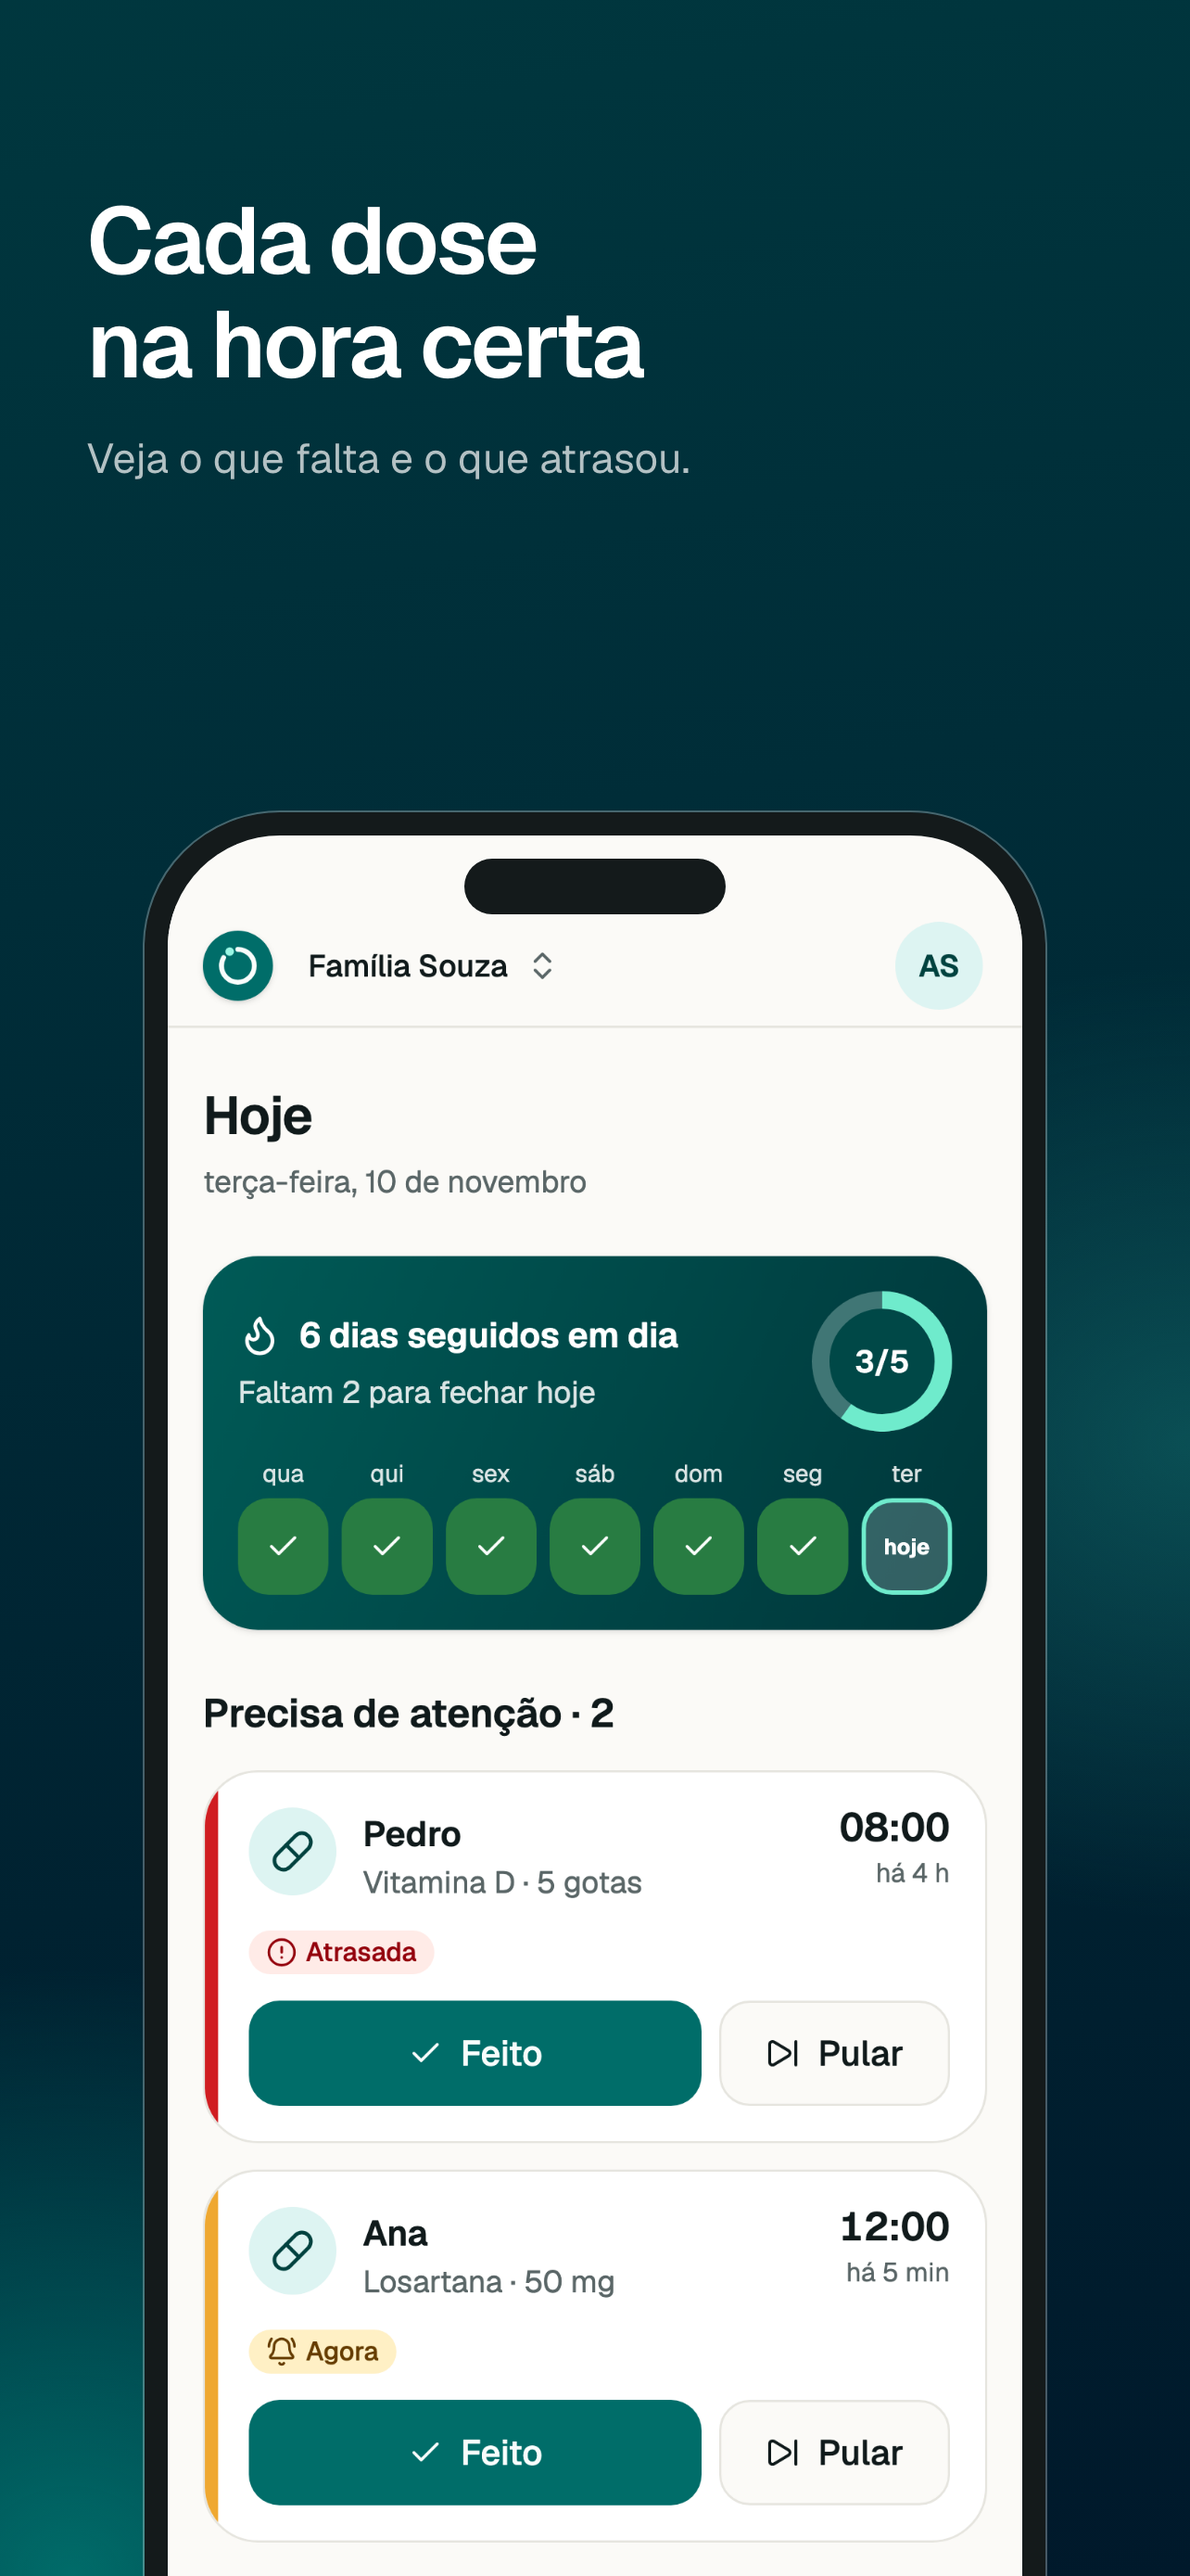
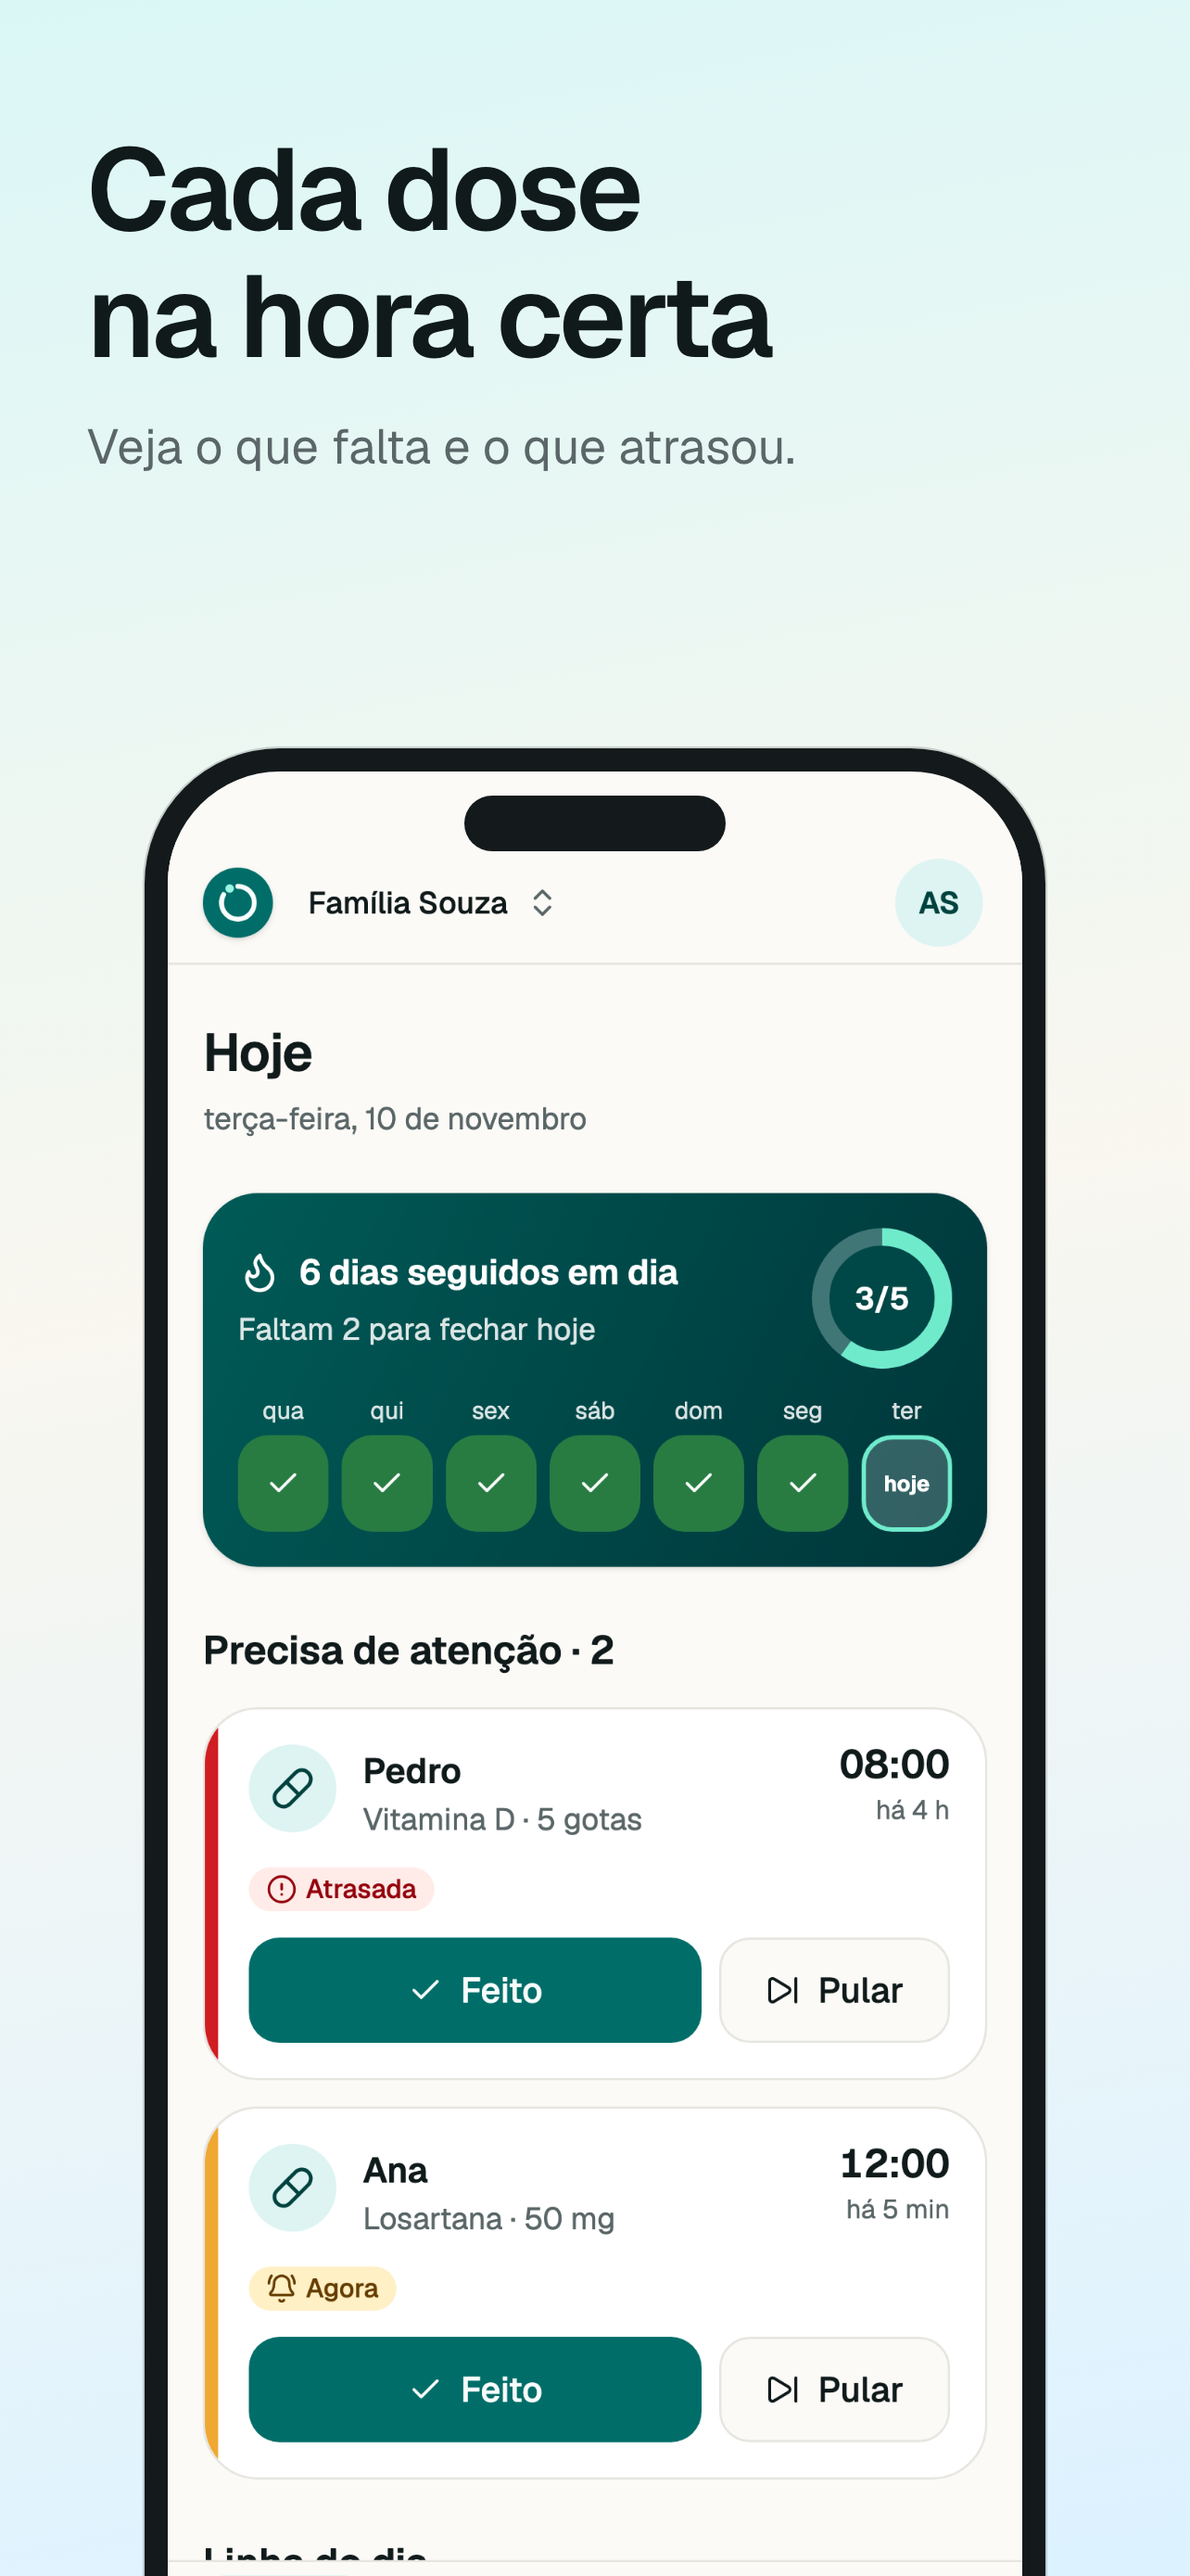
feat(loja): telas claras com o tema claro do site, títulos maiores e celular mais acima

diff --git a/apps/app/tests/store-slides.test.ts b/apps/app/tests/store-slides.test.ts
@@ -37,20 +37,46 @@ describe("tema das telas: algumas no claro, outras no escuro", () => {
   });
 });
 
-describe("estilo: fundo escuro e tipografia do hero do site", () => {
-  const html = renderStoreSlide(STORE_SLIDES[0], STORE_SIZES[0], PIXEL, "");
-  test("o degradê de fundo começa e termina escuro (luminosidade ≤ 0,34 em OKLCH)", () => {
-    const stops = [...html.match(/linear-gradient\(170deg,([^;]*)\)\}/)![1].matchAll(/oklch\(([\d.]+) /g)].map((m) => Number(m[1]));
-    expect(stops.length).toBe(2);
-    for (const l of stops) expect(l).toBeLessThanOrEqual(0.34);
+describe("estilo: tema escuro e claro do site, tipografia do hero", () => {
+  const light = renderStoreSlide(STORE_SLIDES[0], STORE_SIZES[0], PIXEL, "");
+  const dark = renderStoreSlide(STORE_SLIDES[1], STORE_SIZES[0], PIXEL, "");
+  const stops = (html: string) => [...html.match(/linear-gradient\(170deg,([^;]*)\)\}/)![1].matchAll(/oklch\(([\d.]+) /g)].map((m) => Number(m[1]));
+  test("telas escuras: degradê que começa e termina escuro (luminosidade ≤ 0,34 em OKLCH), texto branco, subtítulo a ≤ 72%", () => {
+    const st = stops(dark);
+    expect(st.length).toBe(2);
+    for (const l of st) expect(l).toBeLessThanOrEqual(0.34);
+    expect(dark).toMatch(/body\{[^}]*color:#fff/);
+    expect(Number(dark.match(/p\{[^}]*color:rgba\(255,255,255,([\d.]+)\)/)![1])).toBeLessThanOrEqual(0.72);
   });
-  test("título como no hero: peso 600, entrelinha justa e letras apertadas; subtítulo mais discreto (peso 400, branco a ≤ 72%)", () => {
-    expect(html).toMatch(/h1\{[^}]*font-weight:600/);
-    expect(html).toMatch(/h1\{[^}]*letter-spacing:-\.028em/);
-    expect(html).toMatch(/h1\{[^}]*line-height:1\.1[;}]/);
-    const alpha = Number(html.match(/p\{[^}]*color:rgba\(255,255,255,([\d.]+)\)/)![1]);
-    expect(alpha).toBeLessThanOrEqual(0.72);
-    expect(html).toMatch(/p\{[^}]*font-weight:400/);
+  test("telas claras: o degradê pálido do hero do site (luminosidade ≥ 0,94), texto escuro do site e subtítulo no cinza do site", () => {
+    const st = stops(light);
+    expect(st.length).toBe(3);
+    for (const l of st) expect(l).toBeGreaterThanOrEqual(0.94);
+    expect(light).toMatch(/body\{[^}]*color:oklch\(0\.21 0\.015 200\)/);
+    expect(light).toMatch(/p\{[^}]*color:oklch\(0\.5 0\.015 200\)/);
+  });
+  test("título como no hero: peso 600, entrelinha justa e letras apertadas; subtítulo peso 400", () => {
+    for (const html of [light, dark]) {
+      expect(html).toMatch(/h1\{[^}]*font-weight:600/);
+      expect(html).toMatch(/h1\{[^}]*letter-spacing:-\.028em/);
+      expect(html).toMatch(/h1\{[^}]*line-height:1\.1[;}]/);
+      expect(html).toMatch(/p\{[^}]*font-weight:400/);
+    }
+  });
+  test("o texto é grande e começa perto do topo: título ≥ 9,5% da largura, subtítulo ≥ 4% e margem de cima ≤ 12% da largura", () => {
+    const px = (re: RegExp) => Number(light.match(re)![1]);
+    expect(px(/h1\{[^}]*font-size:([\d.]+)px/)).toBeGreaterThanOrEqual(1320 * 0.095);
+    expect(px(/p\{[^}]*font-size:([\d.]+)px/)).toBeGreaterThanOrEqual(1320 * 0.04);
+    expect(px(/\.copy\{[^}]*top:([\d.]+)px/)).toBeLessThanOrEqual(1320 * 0.12);
+  });
+  test("o texto não chega ao celular: o bloco de texto termina antes do topo da moldura (para o pior título, 3 linhas)", () => {
+    const px = (re: RegExp) => Number(light.match(re)![1]);
+    const top = px(/\.copy\{[^}]*top:([\d.]+)px/);
+    const h1 = px(/h1\{[^}]*font-size:([\d.]+)px/);
+    const p = px(/p\{[^}]*font-size:([\d.]+)px/);
+    const gap = px(/p\{margin:([\d.]+)px/);
+    const worst = top + 3 * h1 * 1.1 + gap + 2 * p * 1.45;
+    expect(worst).toBeLessThanOrEqual(px(/\.phone\{[^}]*?;top:([\d.]+)px/) - 20);
   });
 });
 

diff --git a/apps/app/scripts/store-slides.ts b/apps/app/scripts/store-slides.ts
@@ -29,6 +29,12 @@ export function renderStoreSlide(slide: StoreSlide, size: StoreSize, screenDataU
   const k = size.width / 1320;
   const px = (n: number) => `${Math.round(n * k * 10) / 10}px`;
   const dark = slide.theme === "dark";
+  // tema escuro: degradê fundo-escuro do site, texto branco; tema claro: o degradê pálido do hero e as cores de texto do site
+  const bg = dark
+    ? "radial-gradient(90% 38% at 6% 100%,oklch(0.5 0.1 190 / 0.9) 0%,transparent 62%),radial-gradient(70% 28% at 100% 56%,oklch(0.55 0.09 190 / 0.45) 0%,transparent 66%),linear-gradient(170deg,oklch(0.3 0.07 205) 0%,oklch(0.2 0.055 235) 100%)"
+    : "linear-gradient(170deg,oklch(0.955 0.03 195) 0%,oklch(0.975 0.01 95) 48%,oklch(0.95 0.03 235) 100%)";
+  const fg = dark ? "#fff" : "oklch(0.21 0.015 200)";
+  const sub = dark ? "rgba(255,255,255,.7)" : "oklch(0.5 0.015 200)";
   const frame = dark ? "--bezel:#2b3436;--screen:#0b1314" : "--bezel:#141a1b;--screen:#fbfaf7";
   return `<!doctype html>
 <html lang="pt-BR">
@@ -37,12 +43,12 @@ export function renderStoreSlide(slide: StoreSlide, size: StoreSize, screenDataU
 <style>${fontCss}
 *{box-sizing:border-box}
 html,body{margin:0}
-body{position:relative;width:${size.width}px;height:${size.height}px;overflow:hidden;font-family:Geist,ui-sans-serif,system-ui,sans-serif;color:#fff;-webkit-font-smoothing:antialiased;
-background:radial-gradient(90% 38% at 6% 100%,oklch(0.5 0.1 190 / 0.9) 0%,transparent 62%),radial-gradient(70% 28% at 100% 56%,oklch(0.55 0.09 190 / 0.45) 0%,transparent 66%),linear-gradient(170deg,oklch(0.3 0.07 205) 0%,oklch(0.2 0.055 235) 100%)}
-.copy{position:absolute;left:${px(96)};right:${px(96)};top:${px(210)}}
-h1{margin:0;font-size:${px(104)};line-height:1.1;letter-spacing:-.028em;font-weight:600;text-wrap:balance}
-p{margin:${px(36)} 0 0;font-size:${px(46)};line-height:1.45;font-weight:400;color:rgba(255,255,255,.7);text-wrap:balance}
-.phone{${frame};position:absolute;left:50%;top:${px(900)};width:${px(1000)};margin-left:${px(-500)};overflow:hidden;border:${px(26)} solid var(--bezel);border-bottom:0;border-radius:${px(150)} ${px(150)} 0 0;outline:${px(3)} solid rgba(255,255,255,.28);background:var(--screen);padding-top:${px(78)}}
+body{position:relative;width:${size.width}px;height:${size.height}px;overflow:hidden;font-family:Geist,ui-sans-serif,system-ui,sans-serif;color:${fg};-webkit-font-smoothing:antialiased;
+background:${bg}}
+.copy{position:absolute;left:${px(96)};right:${px(96)};top:${px(140)}}
+h1{margin:0;font-size:${px(128)};line-height:1.1;letter-spacing:-.028em;font-weight:600;text-wrap:balance}
+p{margin:${px(34)} 0 0;font-size:${px(54)};line-height:1.45;font-weight:400;color:${sub};text-wrap:balance}
+.phone{${frame};position:absolute;left:50%;top:${px(830)};width:${px(1000)};margin-left:${px(-500)};overflow:hidden;border:${px(26)} solid var(--bezel);border-bottom:0;border-radius:${px(150)} ${px(150)} 0 0;outline:${px(3)} solid ${dark ? "rgba(255,255,255,.28)" : "rgba(20,26,27,.18)"};background:var(--screen);padding-top:${px(78)}}
 .phone::before{content:"";position:absolute;z-index:2;top:${px(26)};left:50%;width:${px(290)};height:${px(62)};margin-left:${px(-145)};border-radius:999px;background:var(--bezel)}
 .phone img{display:block;width:100%;height:auto}
 </style>
